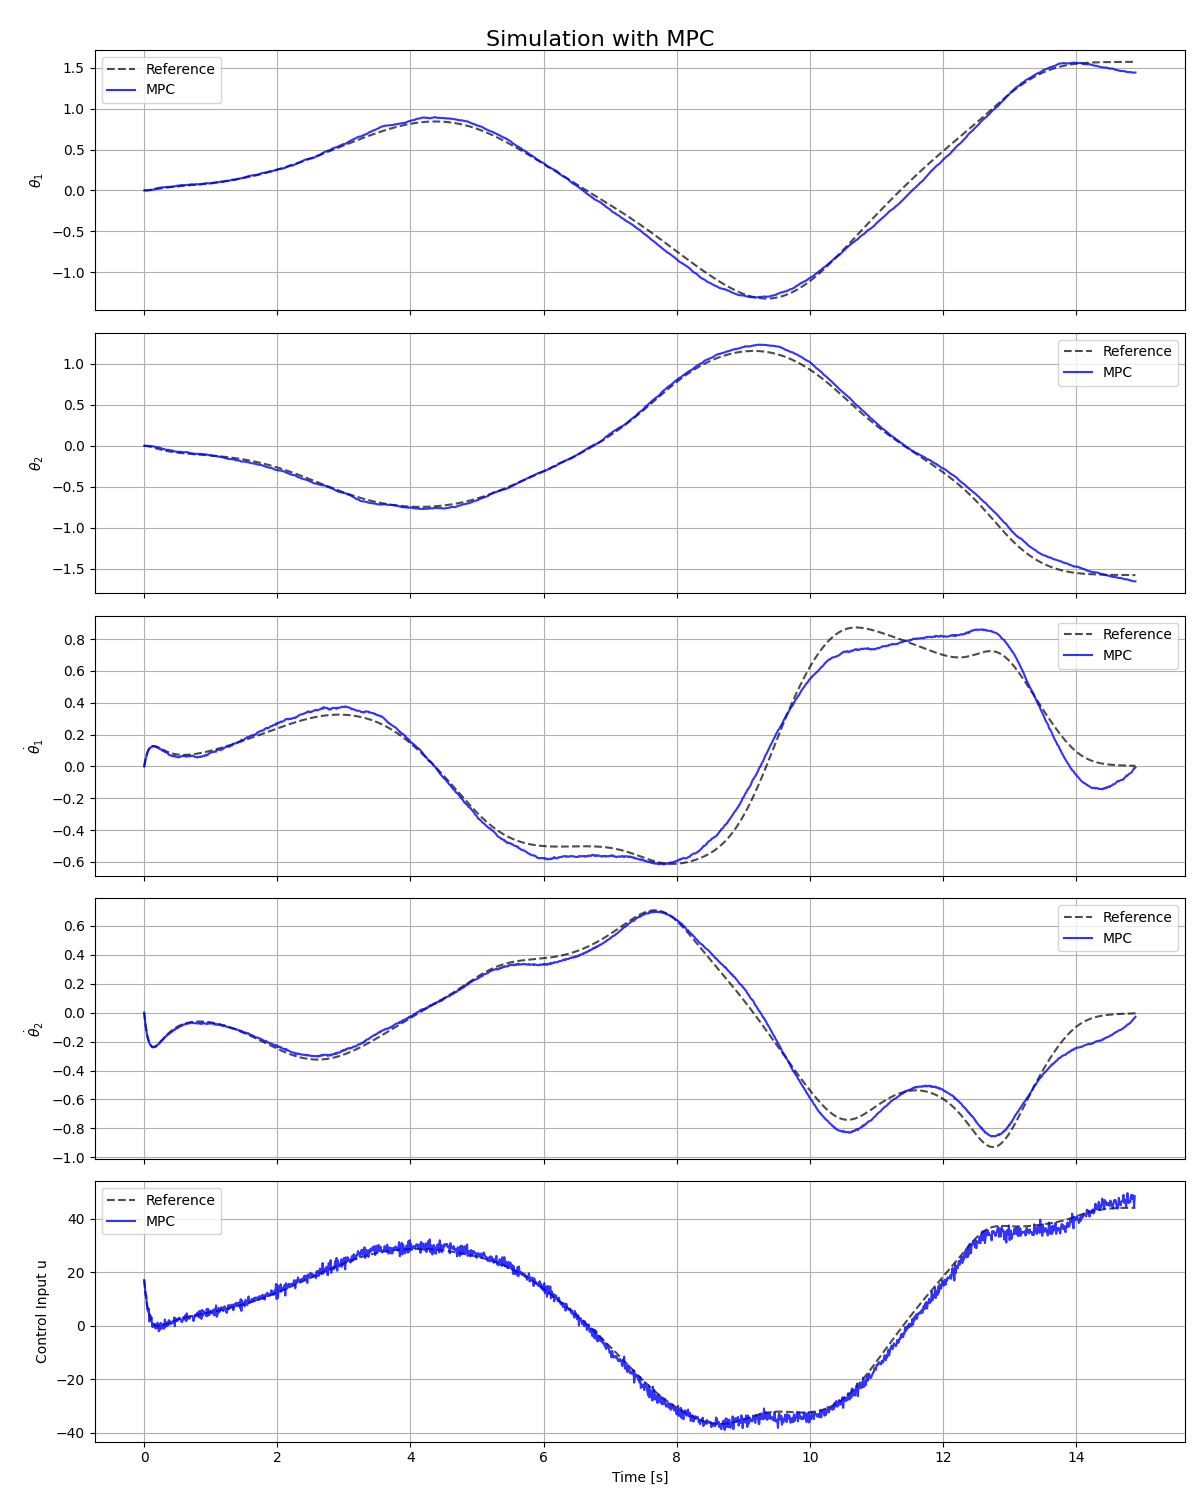
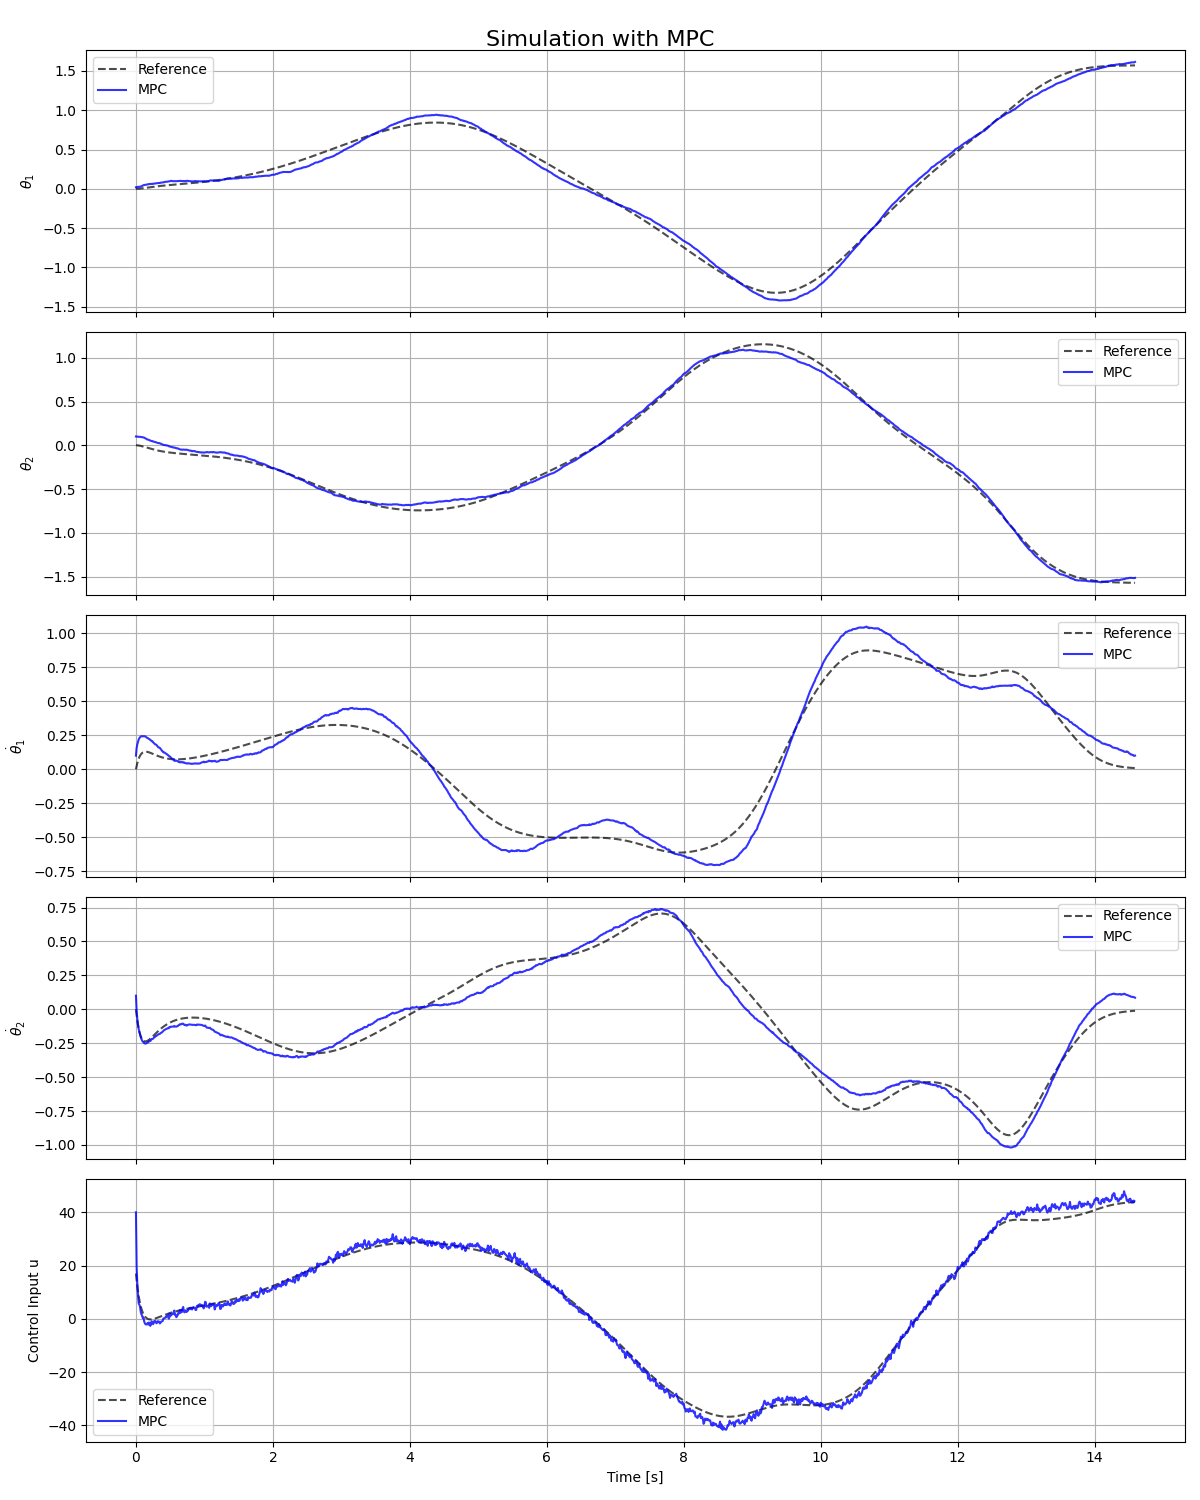
prove

diff --git a/scripts/task3_4.py b/scripts/task3_4.py
@@ -91,11 +91,11 @@ class LQRController(ControllerBase):
         return xx, uu
 
 class MPCController(ControllerBase):
-    """MPC Controller Implementation – versione migliorata con costo sullo stato esplicito."""
+    """Implementazione MPC con costo sullo stato esplicito (senza vincoli sugli input)."""
     def __init__(self, arm: FlexibleRoboticArm, Q: np.ndarray, R: np.ndarray, N: int,
-                 Qf: np.ndarray = None, u_min: float = -60.0, u_max: float = 60.0):
+                 Qf: np.ndarray = None):
         """
-        :param Q: Matrice di costo sullo stato (stadio)
+        :param Q: Matrice di costo sullo stato
         :param R: Matrice di costo sull'input
         :param N: Lunghezza dell'orizzonte predittivo
         :param Qf: Matrice di costo terminale (se None, si usa Q)
@@ -104,24 +104,22 @@ class MPCController(ControllerBase):
         self.Q = Q
         self.R = R
         self.N = N
-        self.Qf = Qf if Qf is not None else Q  # costo terminale
-        self.u_min = u_min
-        self.u_max = u_max
+        self.Qf = Qf if Qf is not None else Q
 
     def formulate_qp_matrices(self, AA: np.ndarray, BB: np.ndarray, x0: np.ndarray) -> Tuple[np.ndarray, np.ndarray]:
         """
-        Costruisce le matrici Hessiana H e il vettore lineare f per il QP
+        Costruisce la matrice Hessiana H e il vettore lineare f per il problema
         considerando il costo:
             J = sum_{i=0}^{N-1} [ x_{i+1}^T Q x_{i+1} + u_i^T R u_i ] + x_{N+1}^T Qf x_{N+1}
-        con la dinamica predittiva:
+        e la dinamica:
             x_{i+1} = A_i x_i + B_i u_i.
-        Eliminando le variabili di stato, si ricava una formulazione in funzione di U = [u0, ..., u_{N-1}].
+        Si elimina la variabile stato ottenendo una formulazione in funzione degli input.
         """
         m = self.ni
         n = self.ns
         N = self.N
 
-        # Calcola la traiettoria nominale propagando x0 con u=0.
+        # Calcola la traiettoria nominale propagando x0 con u = 0.
         x_nom = np.zeros((n, N+1))
         x_nom[:, 0] = x0
         for i in range(N):
@@ -133,25 +131,22 @@ class MPCController(ControllerBase):
         S = []
         for i in range(N+1):
             S_i = np.zeros((n, N * m))
-            # Per ogni controllo u_j che influenza x_i (con j = 0,..., i-1)
             for j in range(i):
                 prod = np.eye(n)
-                # Prodotto dei Jacobiani A per passare da u_j a x_i:
                 for k in range(j, i):
                     prod = AA[:, :, k] @ prod
-                # Inserisce il contributo di u_j nelle colonne corrispondenti
                 S_i[:, j*m:(j+1)*m] = prod @ BB[:, :, j]
             S.append(S_i)
 
-        # Inizializza Hessiana H e vettore f (nota: il costo è espresso come  U^T H U + 2 f^T U)
+        # Inizializza la Hessiana H e il vettore f (costo espresso come U^T H U + 2 f^T U)
         H = np.zeros((N * m, N * m))
         f = np.zeros((N * m, 1))
 
-        # Accumula il costo stage per i passi 1,...,N-1
+        # Accumula il costo per i passi intermedi
         for i in range(1, N):
             H += S[i].T @ self.Q @ S[i]
             f += S[i].T @ (2 * self.Q @ x_nom[:, i]).reshape(-1, 1)
-        # Aggiunge il costo terminale al passo N
+        # Aggiunge il costo terminale
         H += S[N].T @ self.Qf @ S[N]
         f += S[N].T @ (2 * self.Qf @ x_nom[:, N]).reshape(-1, 1)
 
@@ -162,60 +157,33 @@ class MPCController(ControllerBase):
 
         return H, f
 
-    def formulate_constraints(self) -> Tuple[np.ndarray, np.ndarray]:
-        """
-        Formulazione dei vincoli sugli input.
-        Si costruiscono le matrici G e il vettore h tali che:
-            G * U <= h,
-        per imporre u_min <= u_i <= u_max per i = 0,...,N-1.
-        """
-        m = self.ni
-        N = self.N
-        G = np.zeros((2 * N * m, N * m))
-        h = np.zeros(2 * N * m)
-        
-        for i in range(N):
-            # Vincolo superiore: u_i <= u_max
-            G[i * m:(i+1) * m, i * m:(i+1) * m] = np.eye(m)
-            h[i * m:(i+1) * m] = self.u_max
-            
-            # Vincolo inferiore: -u_i <= -u_min  <=> u_i >= u_min
-            G[N * m + i * m:N * m + (i+1) * m, i * m:(i+1) * m] = -np.eye(m)
-            h[N * m + i * m:N * m + (i+1) * m] = -self.u_min
-            
-        return G, h
-
     def solve_mpc(self, x0: np.ndarray, AA: np.ndarray, BB: np.ndarray) -> np.ndarray:
         """
-        Risolve il QP a orizzonte finito.
+        Risolve il problema QP a orizzonte finito.
         :param x0: stato iniziale (errore rispetto al riferimento)
         :param AA: array di matrici A lungo l'orizzonte (dimensione: ns x ns x N)
         :param BB: array di matrici B lungo l'orizzonte (dimensione: ns x ni x N)
-        :return: Sequenza ottimale degli input (impilati)
+        :return: Sequenza ottimale degli input
         """
         H, f = self.formulate_qp_matrices(AA, BB, x0)
-        G, h = self.formulate_constraints()
-
-        # CVXOPT richiede le matrici in formato "matrix"
-        sol = solvers.qp(matrix(H), matrix(f), matrix(G), matrix(h))
+        # Nessun vincolo sugli input: si risolve il QP senza vincoli
+        sol = solvers.qp(matrix(H), matrix(f))
         
         if sol['status'] != 'optimal':
-            raise RuntimeError("MPC QP solver did not converge to optimal solution")
+            raise RuntimeError("Il risolutore QP MPC non ha convergito a soluzione ottimale")
             
-        # Restituisce U con dimensione (N, ni)
         U_opt = np.array(sol['x']).reshape(-1, self.ni)
         return U_opt
 
     def simulate(self, x_ref: np.ndarray, u_ref: np.ndarray, 
                  disturbances: Dict) -> Tuple[np.ndarray, np.ndarray]:
         """Simula il sistema con controllo MPC"""
-        TT = x_ref.shape[1] - self.N  # si garantisce la disponibilità della linearizzazione per l'intero orizzonte
+        TT = x_ref.shape[1] - self.N
 
-        # Inizializza le traiettorie
         xx = np.zeros((self.ns, TT))
         uu = np.zeros((self.ni, TT-1))
         
-        # Condizione iniziale (con eventuale perturbazione)
+        # Imposta la condizione iniziale (eventuale perturbazione)
         x0_perturb = disturbances.get("x0_perturb", np.zeros(self.ns))
         if disturbances.get("perturbed_state", False):
             xx[:, 0] = x_ref[:, 0] + x0_perturb
@@ -230,21 +198,17 @@ class MPCController(ControllerBase):
             AA[:, :, t] = np.array(A_t, dtype=float)
             BB[:, :, t] = np.array(B_t, dtype=float)
 
-        # Loop di simulazione MPC
         for t in range(TT-1):
-            # Calcola l'errore di stato (si lavora in variabili erroriali rispetto al riferimento)
+            # Calcola l'errore di stato (rispetto al riferimento)
             x_error = xx[:, t] - x_ref[:, t]
             
-            # Risolve il QP a orizzonte finito
             U_opt = self.solve_mpc(x_error, AA[:, :, t:t+self.N], BB[:, :, t:t+self.N])
             
-            # Applica il primo comando ottimale, aggiungendolo al riferimento
+            # Applica il primo comando ottimale sommato al riferimento
             uu[:, t] = U_opt[0] + u_ref[:, t]
             
-            # Evolvi la dinamica del sistema
             xx[:, t+1] = self.arm.discrete_dynamics(xx[:, t], uu[:, t])
             
-            # Aggiungi rumore se specificato
             if disturbances.get("gaussian_noise", False):
                 noise = np.random.normal(
                     disturbances.get("gaussian_mean", 0),
@@ -254,6 +218,7 @@ class MPCController(ControllerBase):
                 xx[:, t+1] += noise
 
         return xx, uu
+
 
 
 class SimulationManager:

diff --git a/scripts/parameters.py b/scripts/parameters.py
@@ -35,7 +35,7 @@ R3 = 0.0005 * np.eye(1)
 QT3 = np.diag([20.0, 20.0, 1.0, 1.0])
 
 # MPC
-Q4 = np.diag([100.0, 100.0, 100.0, 100.0])
+Q4 = np.diag([30.0, 30.0, 10.0, 10.0])
 R4 = 0.0005 * np.eye(1)
-N4 = 10
-QT4 = np.diag([100.0, 100.0, 100.0, 100.0])
+N4 = 40
+QT4 = Q4 * 10
